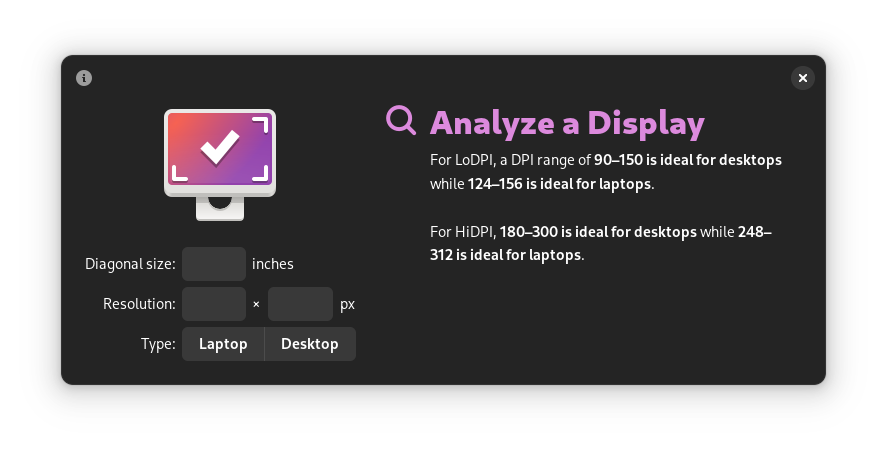
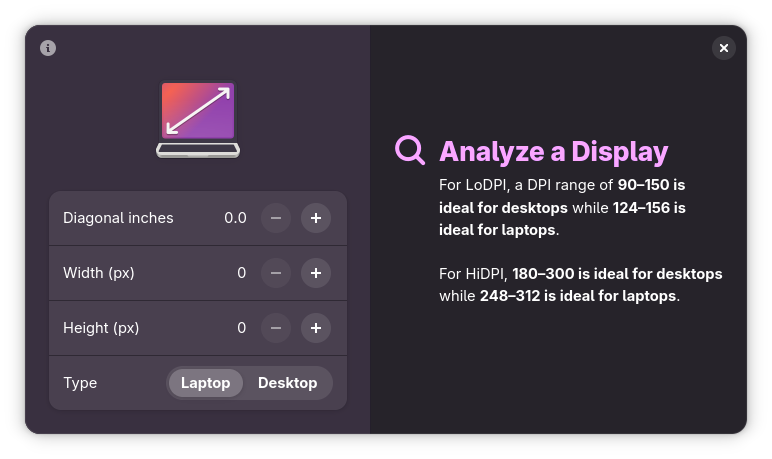
ui: clean up, tint w/accent color

diff --git a/data/styles/style.css b/data/styles/style.css
@@ -1,7 +1,13 @@
 /*
  * SPDX-License-Identifier: GPL-3.0-or-later
- * SPDX-FileCopyrightText: 2018–2025 Cassidy James Blaede <c@ssidyjam.es>
+ * SPDX-FileCopyrightText: 2018–2026 Cassidy James Blaede <c@ssidyjam.es>
  */
+
+:root {
+  --sidebar-bg-color: color-mix(in oklab, var(--accent-color), var(--view-bg-color) 85%);
+  --sidebar-backdrop-color: color-mix(in oklab, var(--accent-color), var(--view-bg-color) 90%);
+  --window-bg-color: color-mix(in oklab, var(--accent-color), var(--view-bg-color) 95%);
+}
 
 .body {
   line-height: 1.25;
